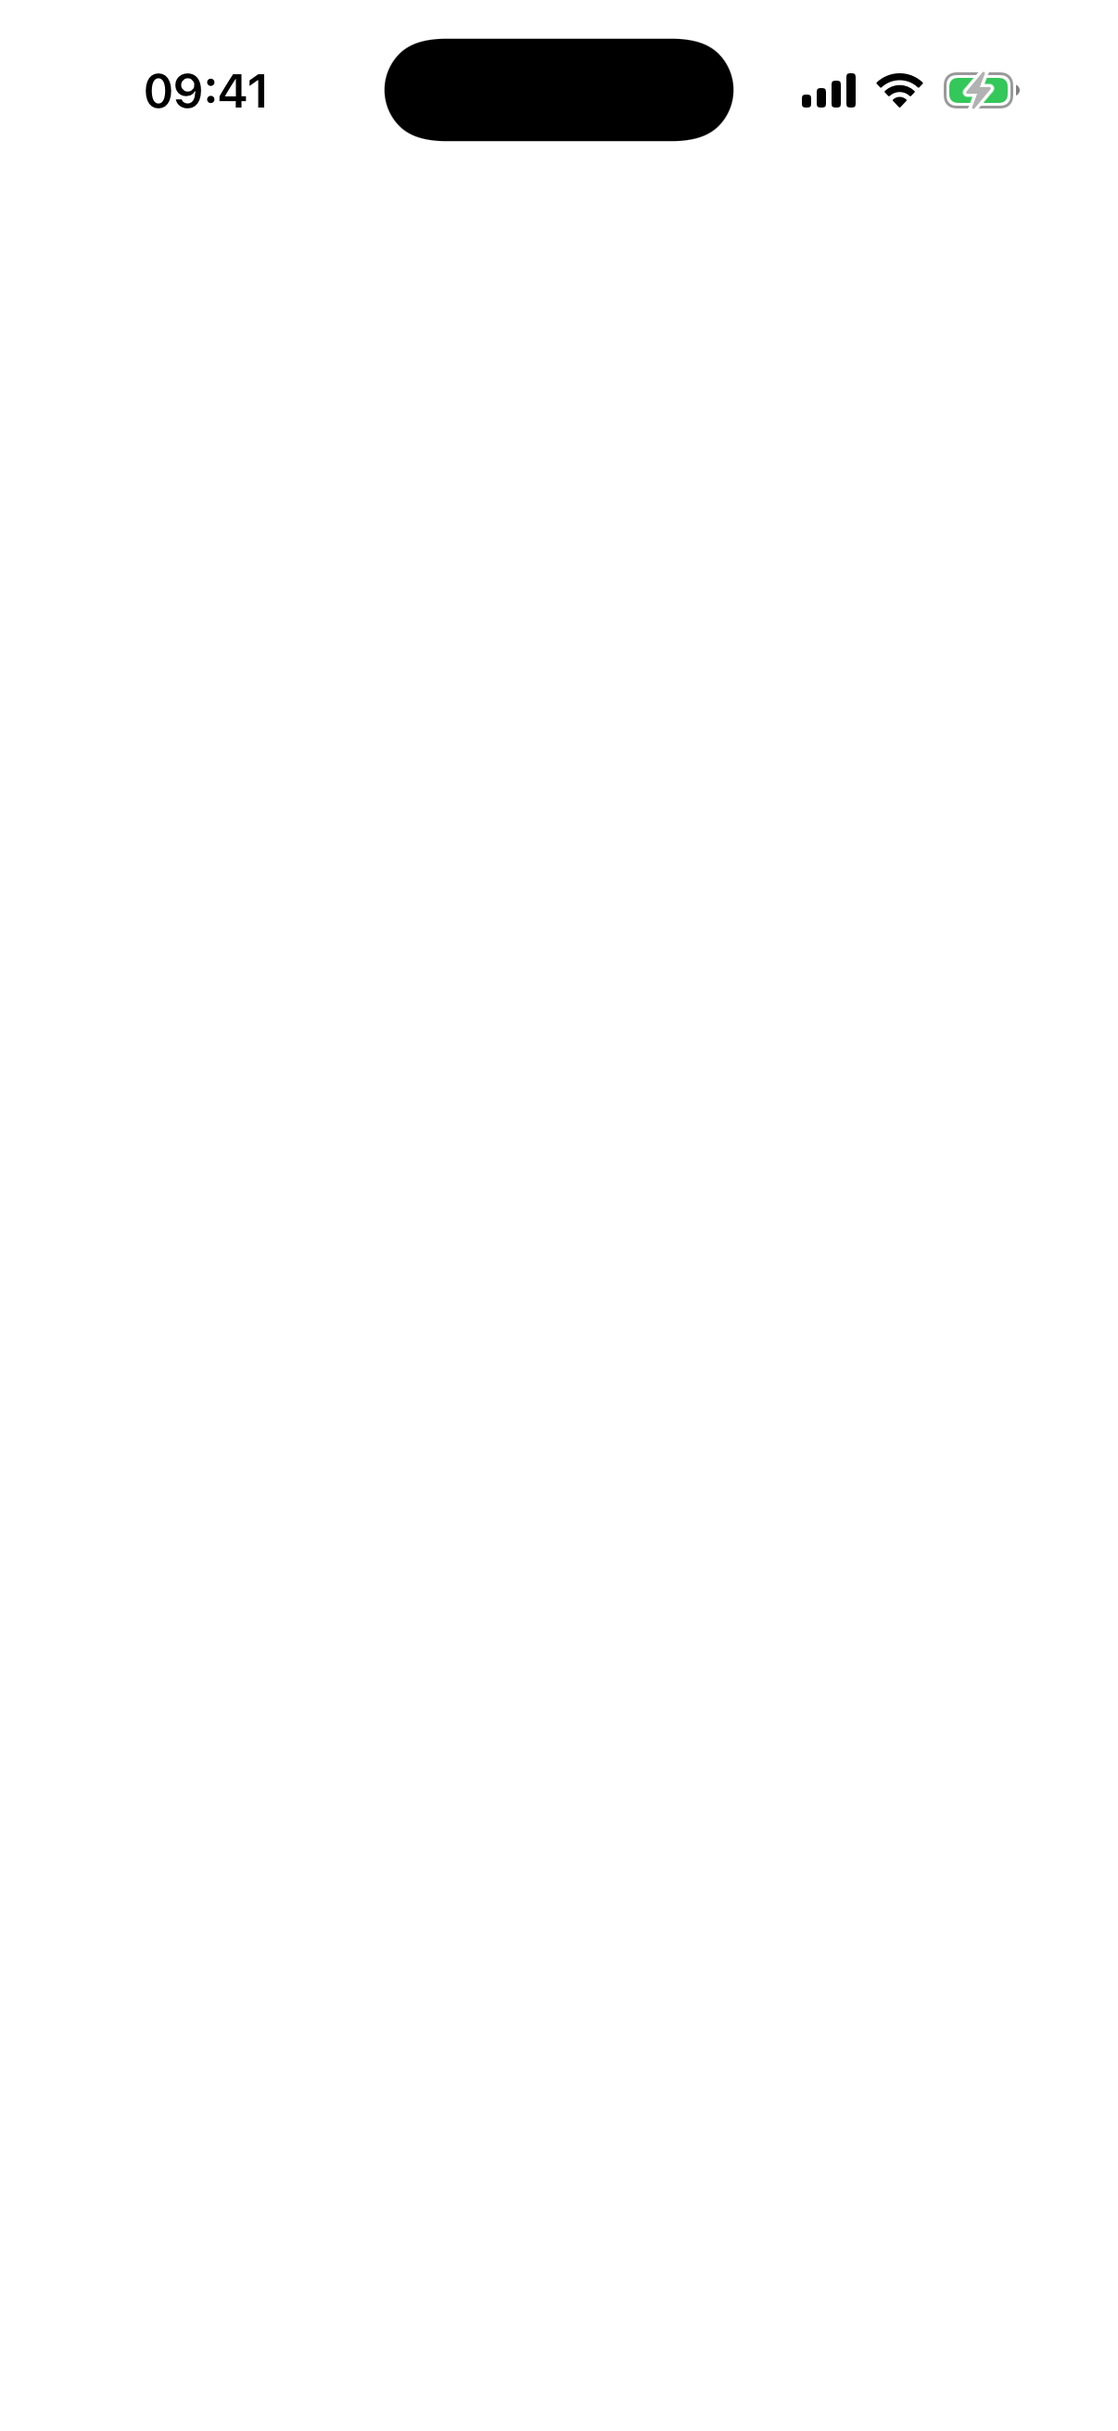
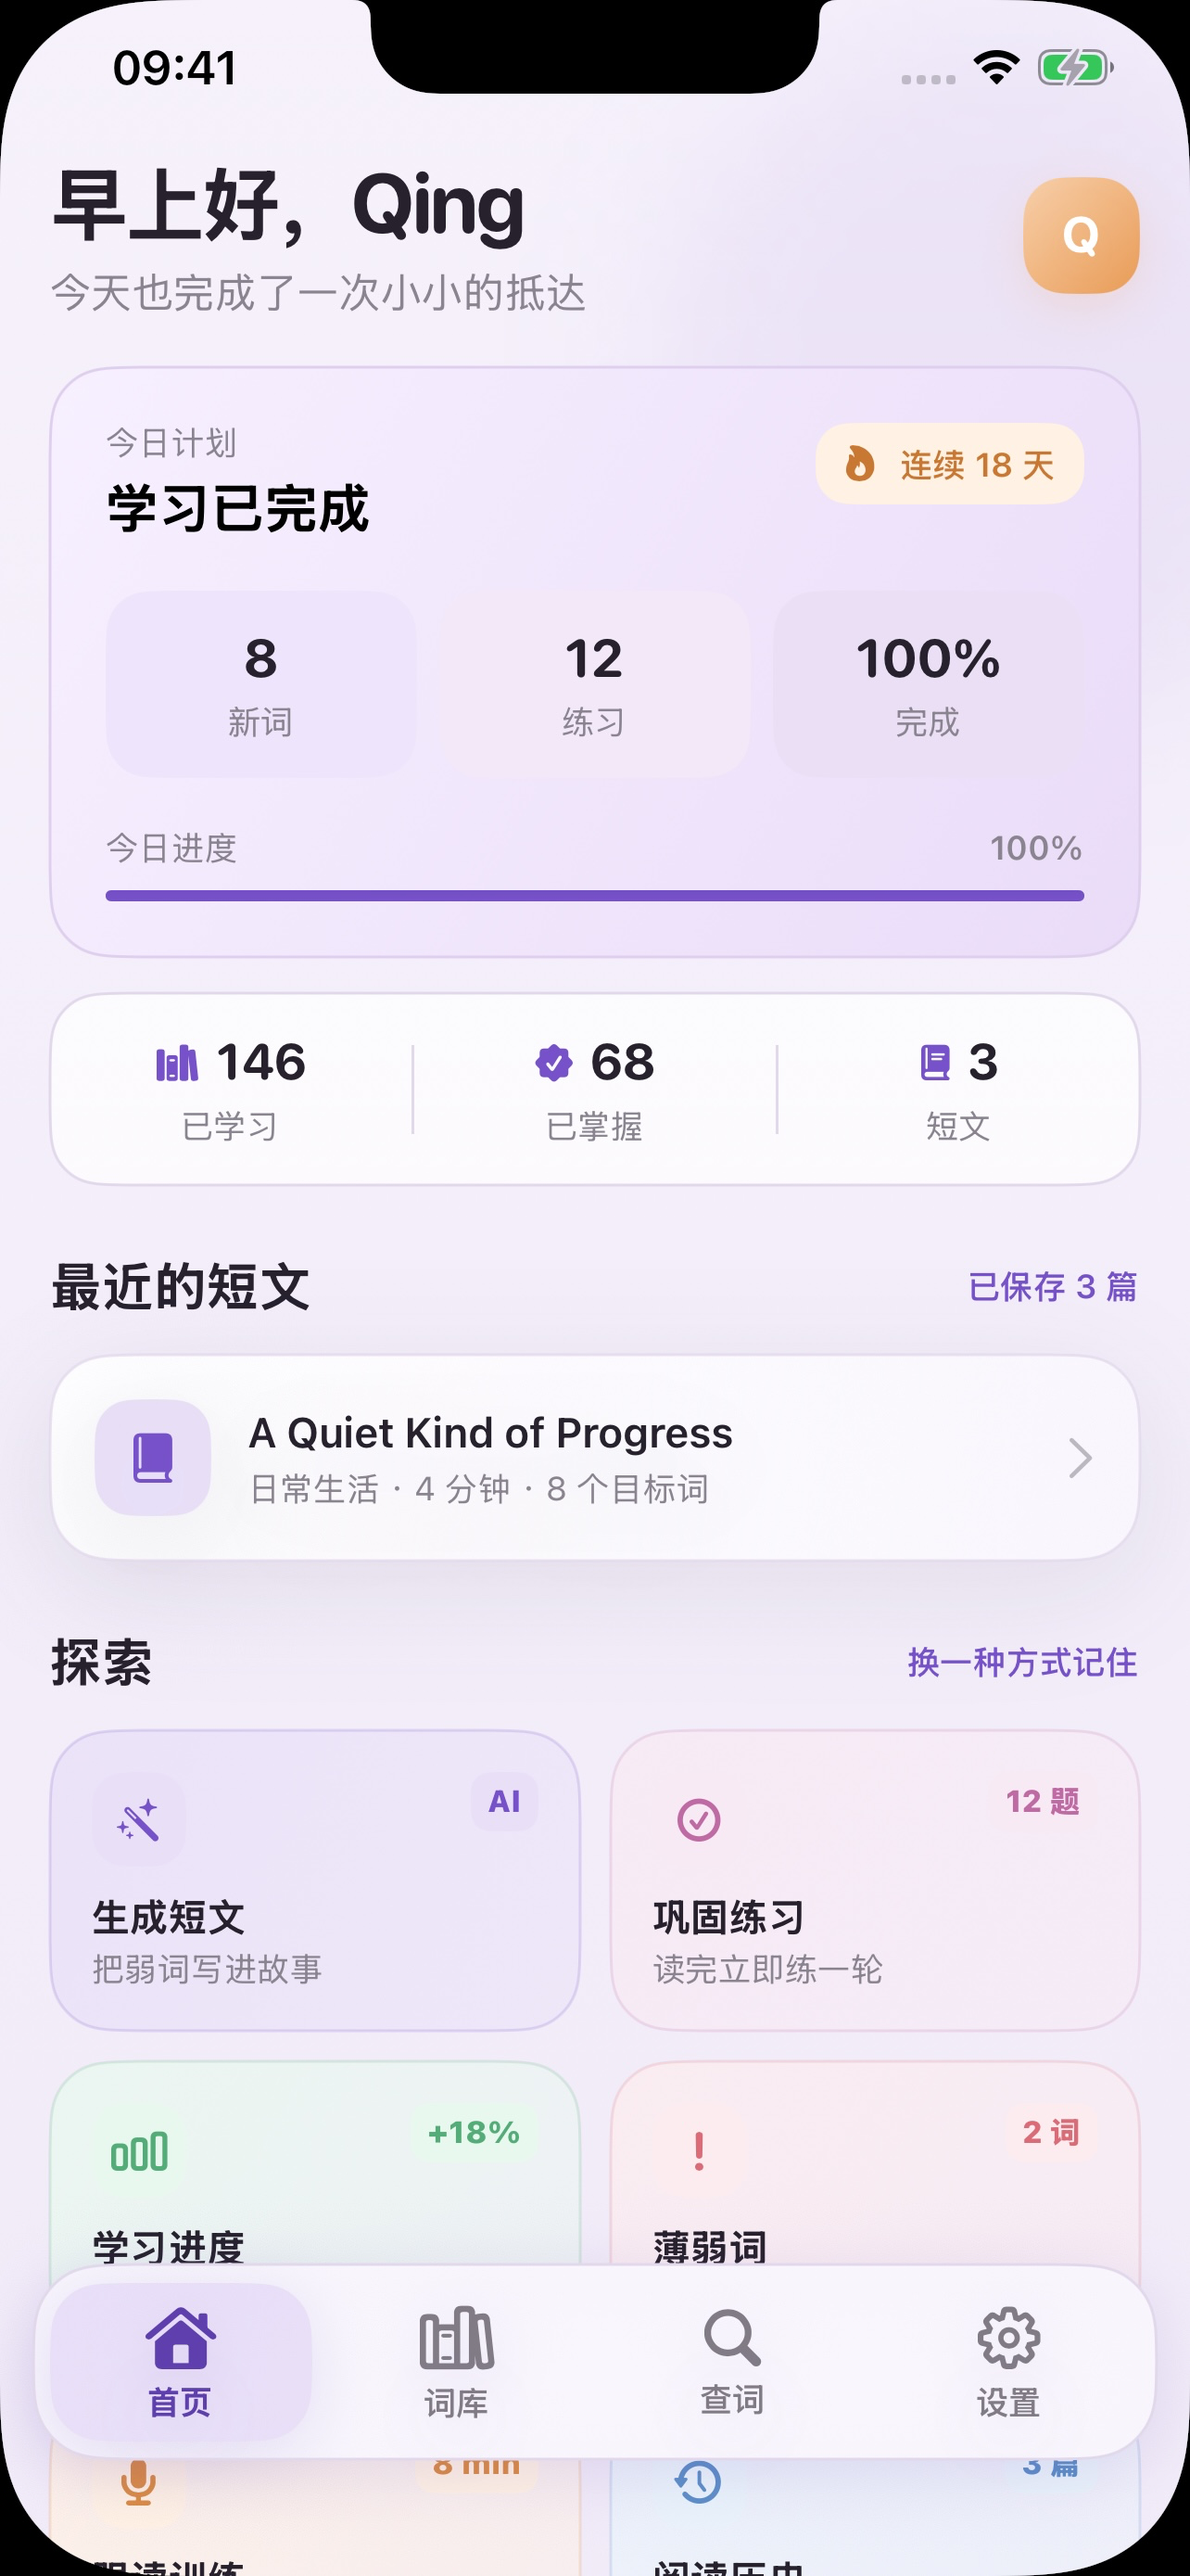
docs: add resume step to learning loop in README

diff --git a/README.md b/README.md
@@ -54,7 +54,7 @@ CiJing has four focused top-level areas. Home brings the daily plan, accumulated
 
 ### The complete learning loop
 
-The top-level navigation stays simple, while each reading opens a focused sequence: choose target words, read with optional translations, practise retrieval, shadow sentence by sentence, and review progress.
+The top-level navigation stays simple, while each reading opens a focused sequence: choose target words, read with optional translations, practise retrieval, shadow sentence by sentence, review progress, and resume saved readings after relaunch.
 
 <table>
   <tr>
@@ -70,12 +70,12 @@ The top-level navigation stays simple, while each reading opens a focused sequen
   <tr>
     <td align="center"><strong>4 · Shadow</strong><br><sub>Listen, speak, and compare sentence by sentence</sub></td>
     <td align="center"><strong>5 · Improve</strong><br><sub>Activity, vocabulary states, and weak words</sub></td>
-    <td align="center"><strong>One continuous loop</strong><br><sub>Every saved reading remains available after relaunch</sub></td>
+    <td align="center"><strong>6 · Resume</strong><br><sub>Continue any saved reading after relaunch</sub></td>
   </tr>
   <tr>
     <td align="center"><img src="docs/assets/screenshots/shadowing.jpg" width="220" alt="Sentence shadowing practice"></td>
     <td align="center"><img src="docs/assets/screenshots/progress.jpg" width="220" alt="Learning progress dashboard"></td>
-    <td align="center">Save → Read → Practise → Revisit</td>
+    <td align="center"><img src="docs/assets/screenshots/reading.jpg" width="220" alt="Resume a saved reading after relaunch"></td>
   </tr>
 </table>
 

diff --git a/README_zh.md b/README_zh.md
@@ -54,7 +54,7 @@
 
 ### 完整学习过程
 
-一级导航保持克制，进入学习后形成完整闭环：选词定制短文、双语阅读、语境练习、逐句跟读，再回到进度页查看积累。以下全部是 App 内真实页面，不是概念图。
+一级导航保持克制，进入学习后形成完整闭环：选词定制短文、双语阅读、语境练习、逐句跟读、查看积累，并可在 App 重启后继续已保存的短文。以下全部是 App 内真实页面，不是概念图。
 
 <table>
   <tr>
@@ -70,12 +70,12 @@
   <tr>
     <td align="center"><strong>4 · 逐句跟读</strong><br><sub>听一句、读一句、查看匹配反馈</sub></td>
     <td align="center"><strong>5 · 查看成长</strong><br><sub>活跃趋势、词库状态与薄弱词</sub></td>
-    <td align="center"><strong>学习闭环</strong><br><sub>收藏 → 阅读 → 练习 → 重遇</sub></td>
+    <td align="center"><strong>6 · 重启后继续</strong><br><sub>随时打开已保存的短文接着阅读</sub></td>
   </tr>
   <tr>
     <td align="center"><img src="docs/assets/screenshots/shadowing.jpg" width="220" alt="逐句跟读训练"></td>
     <td align="center"><img src="docs/assets/screenshots/progress.jpg" width="220" alt="学习进度与薄弱词页面"></td>
-    <td align="center">已生成短文长期保存，重启或重新登录后仍可继续</td>
+    <td align="center"><img src="docs/assets/screenshots/reading.jpg" width="220" alt="App 重启后继续阅读已保存的短文"></td>
   </tr>
 </table>
 
